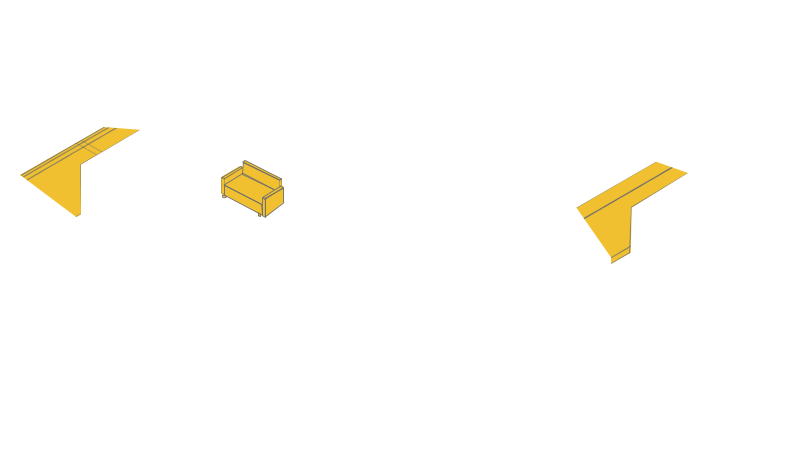
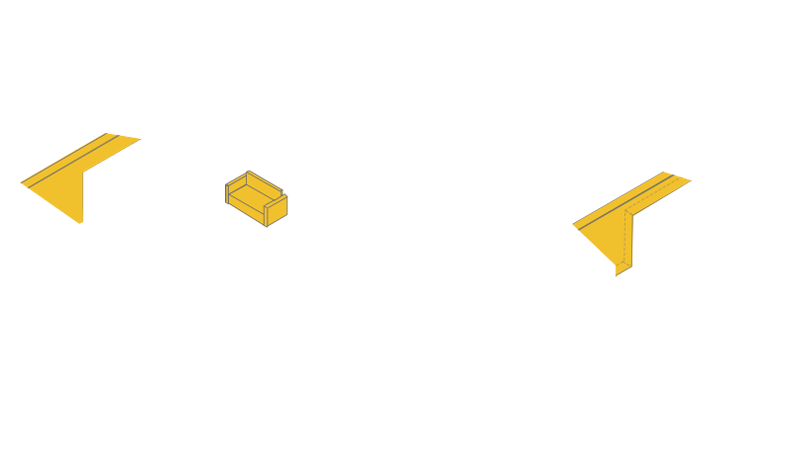
Replace room and room mask images

Changed region(s): [[0.7227, 0.3377, 0.8733, 0.614], [0.0301, 0.2763, 0.1807, 0.4912], [0.271, 0.3377, 0.3614, 0.4912]]

diff --git a/css/bob.css b/css/bob.css
@@ -35,13 +35,10 @@
 
 .room, .room-mask {
     height: 100%;
-    width: 100%;
-}
-
-.room-mask {
-    left: 0;
+    left: -5px;
     position: absolute;
-    top: 0;
+    top: -8px;
+    width: 100%;
 }
 
 #part5 {
